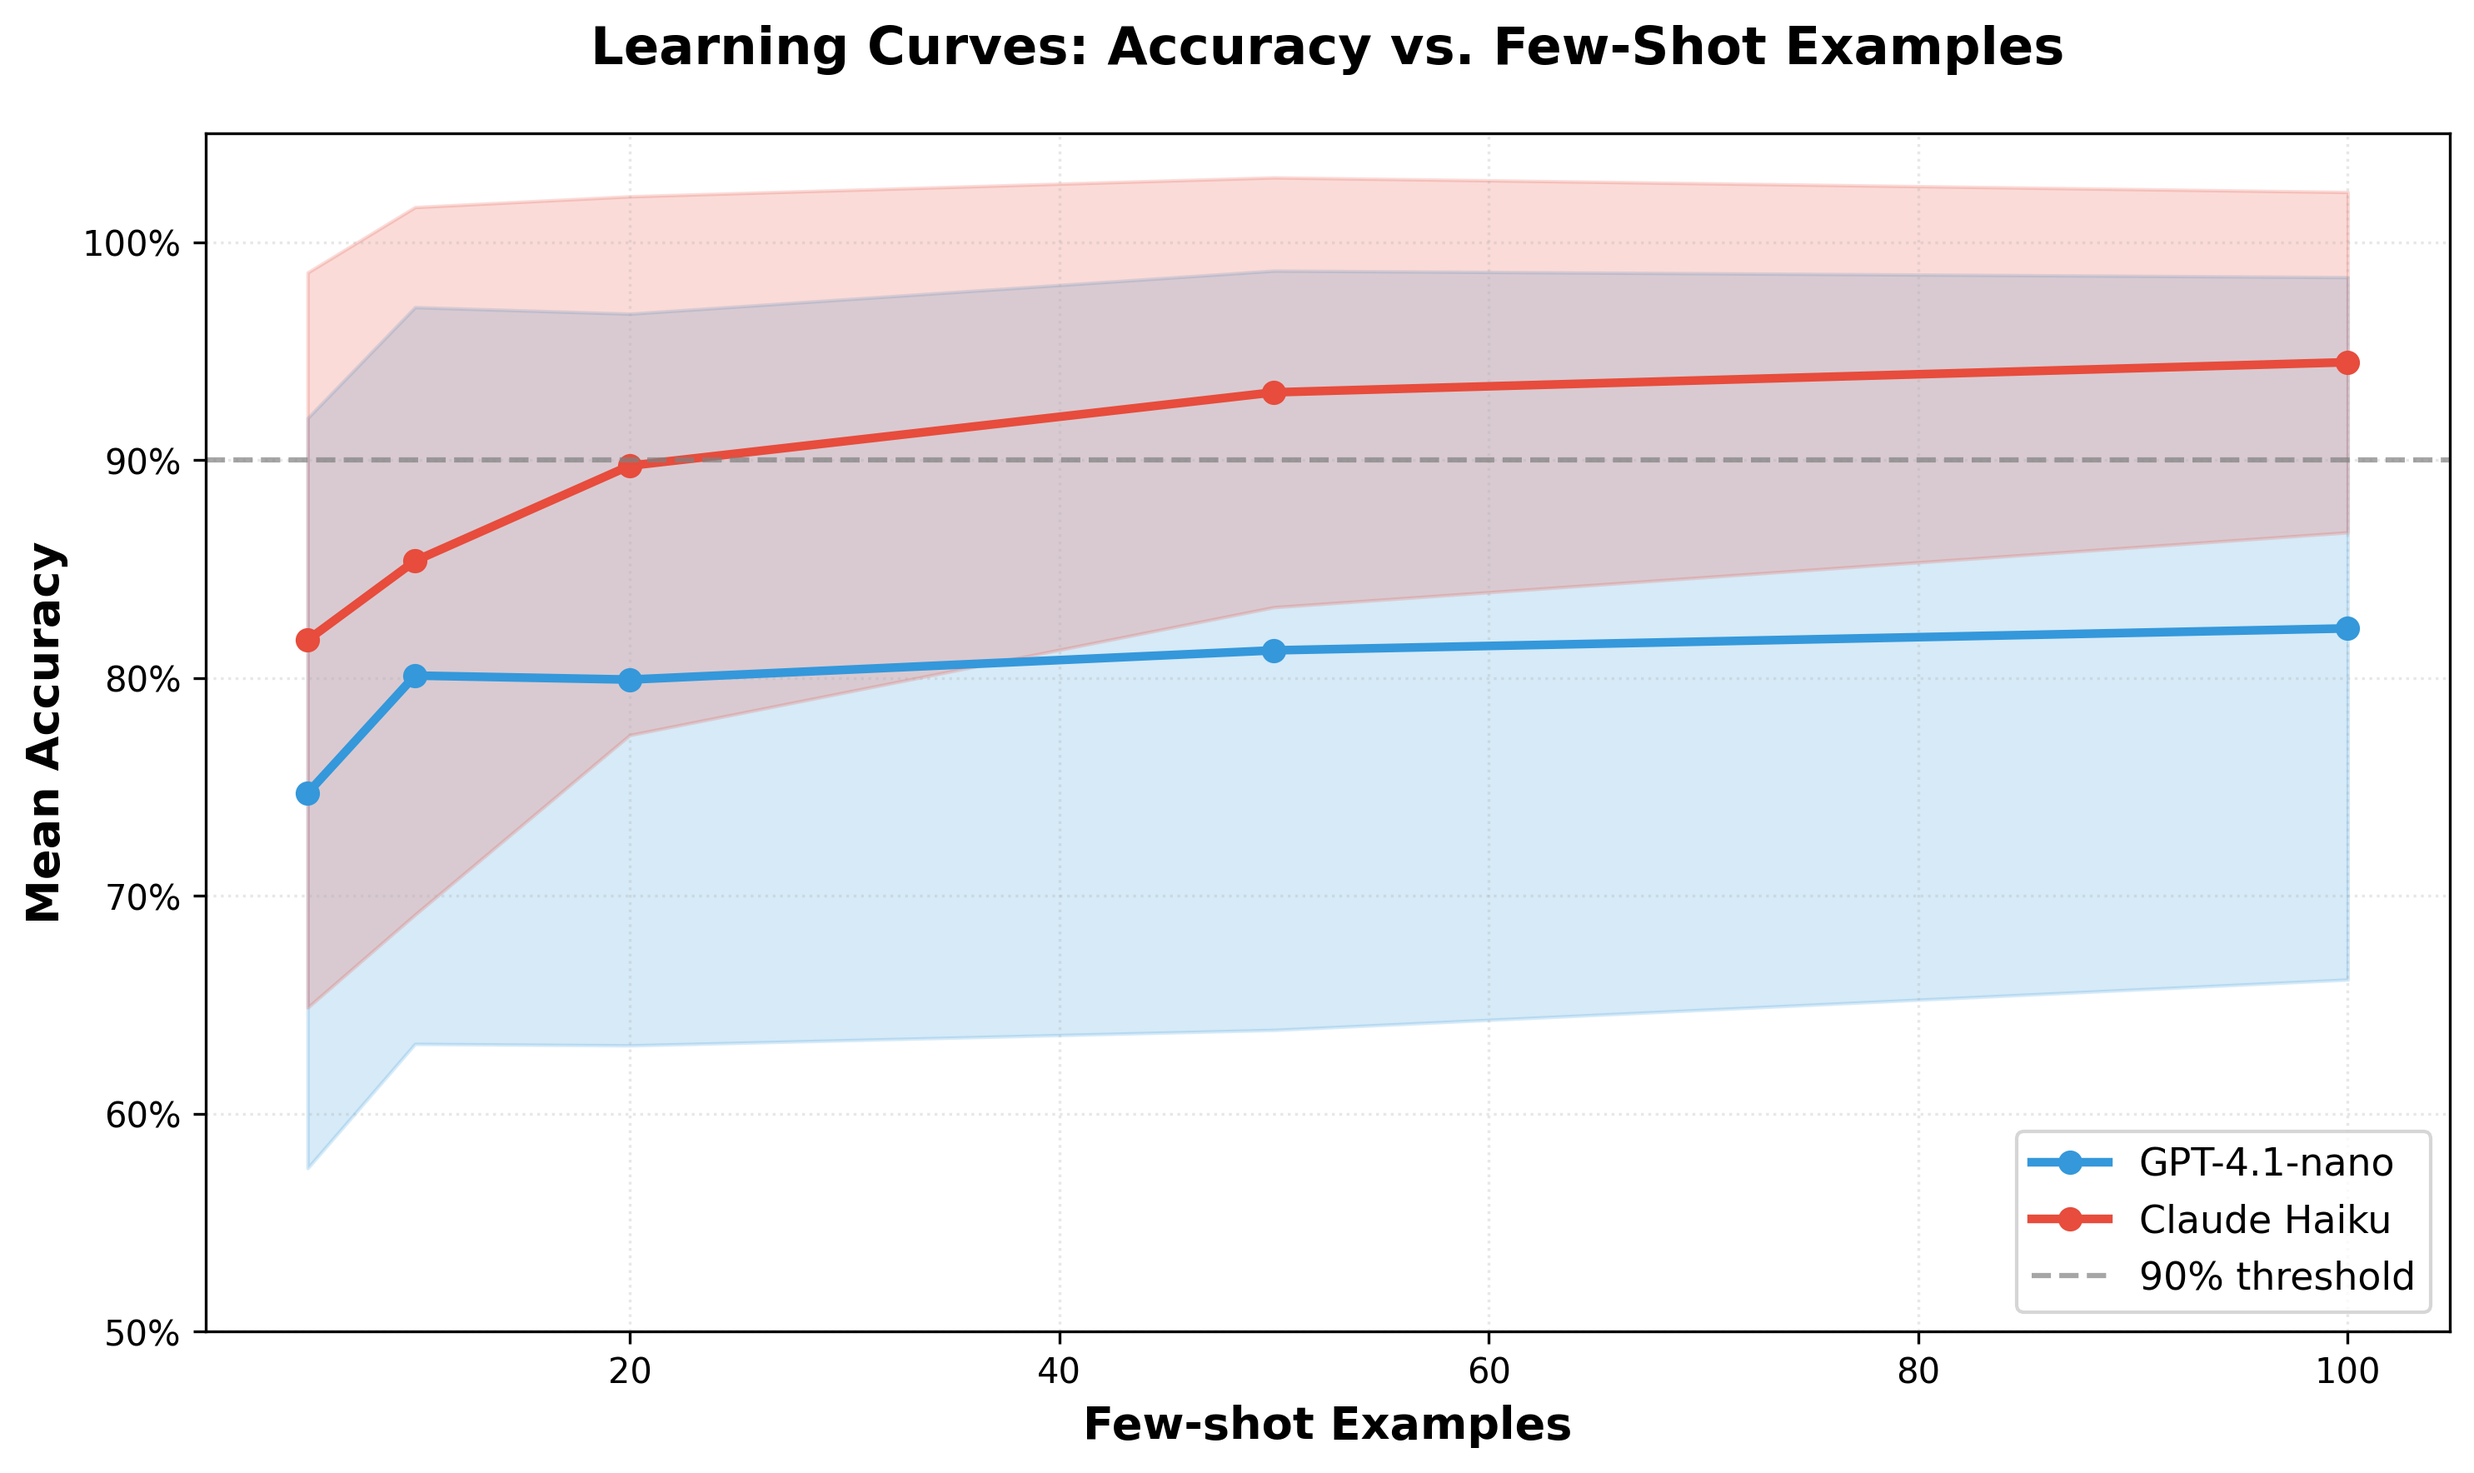
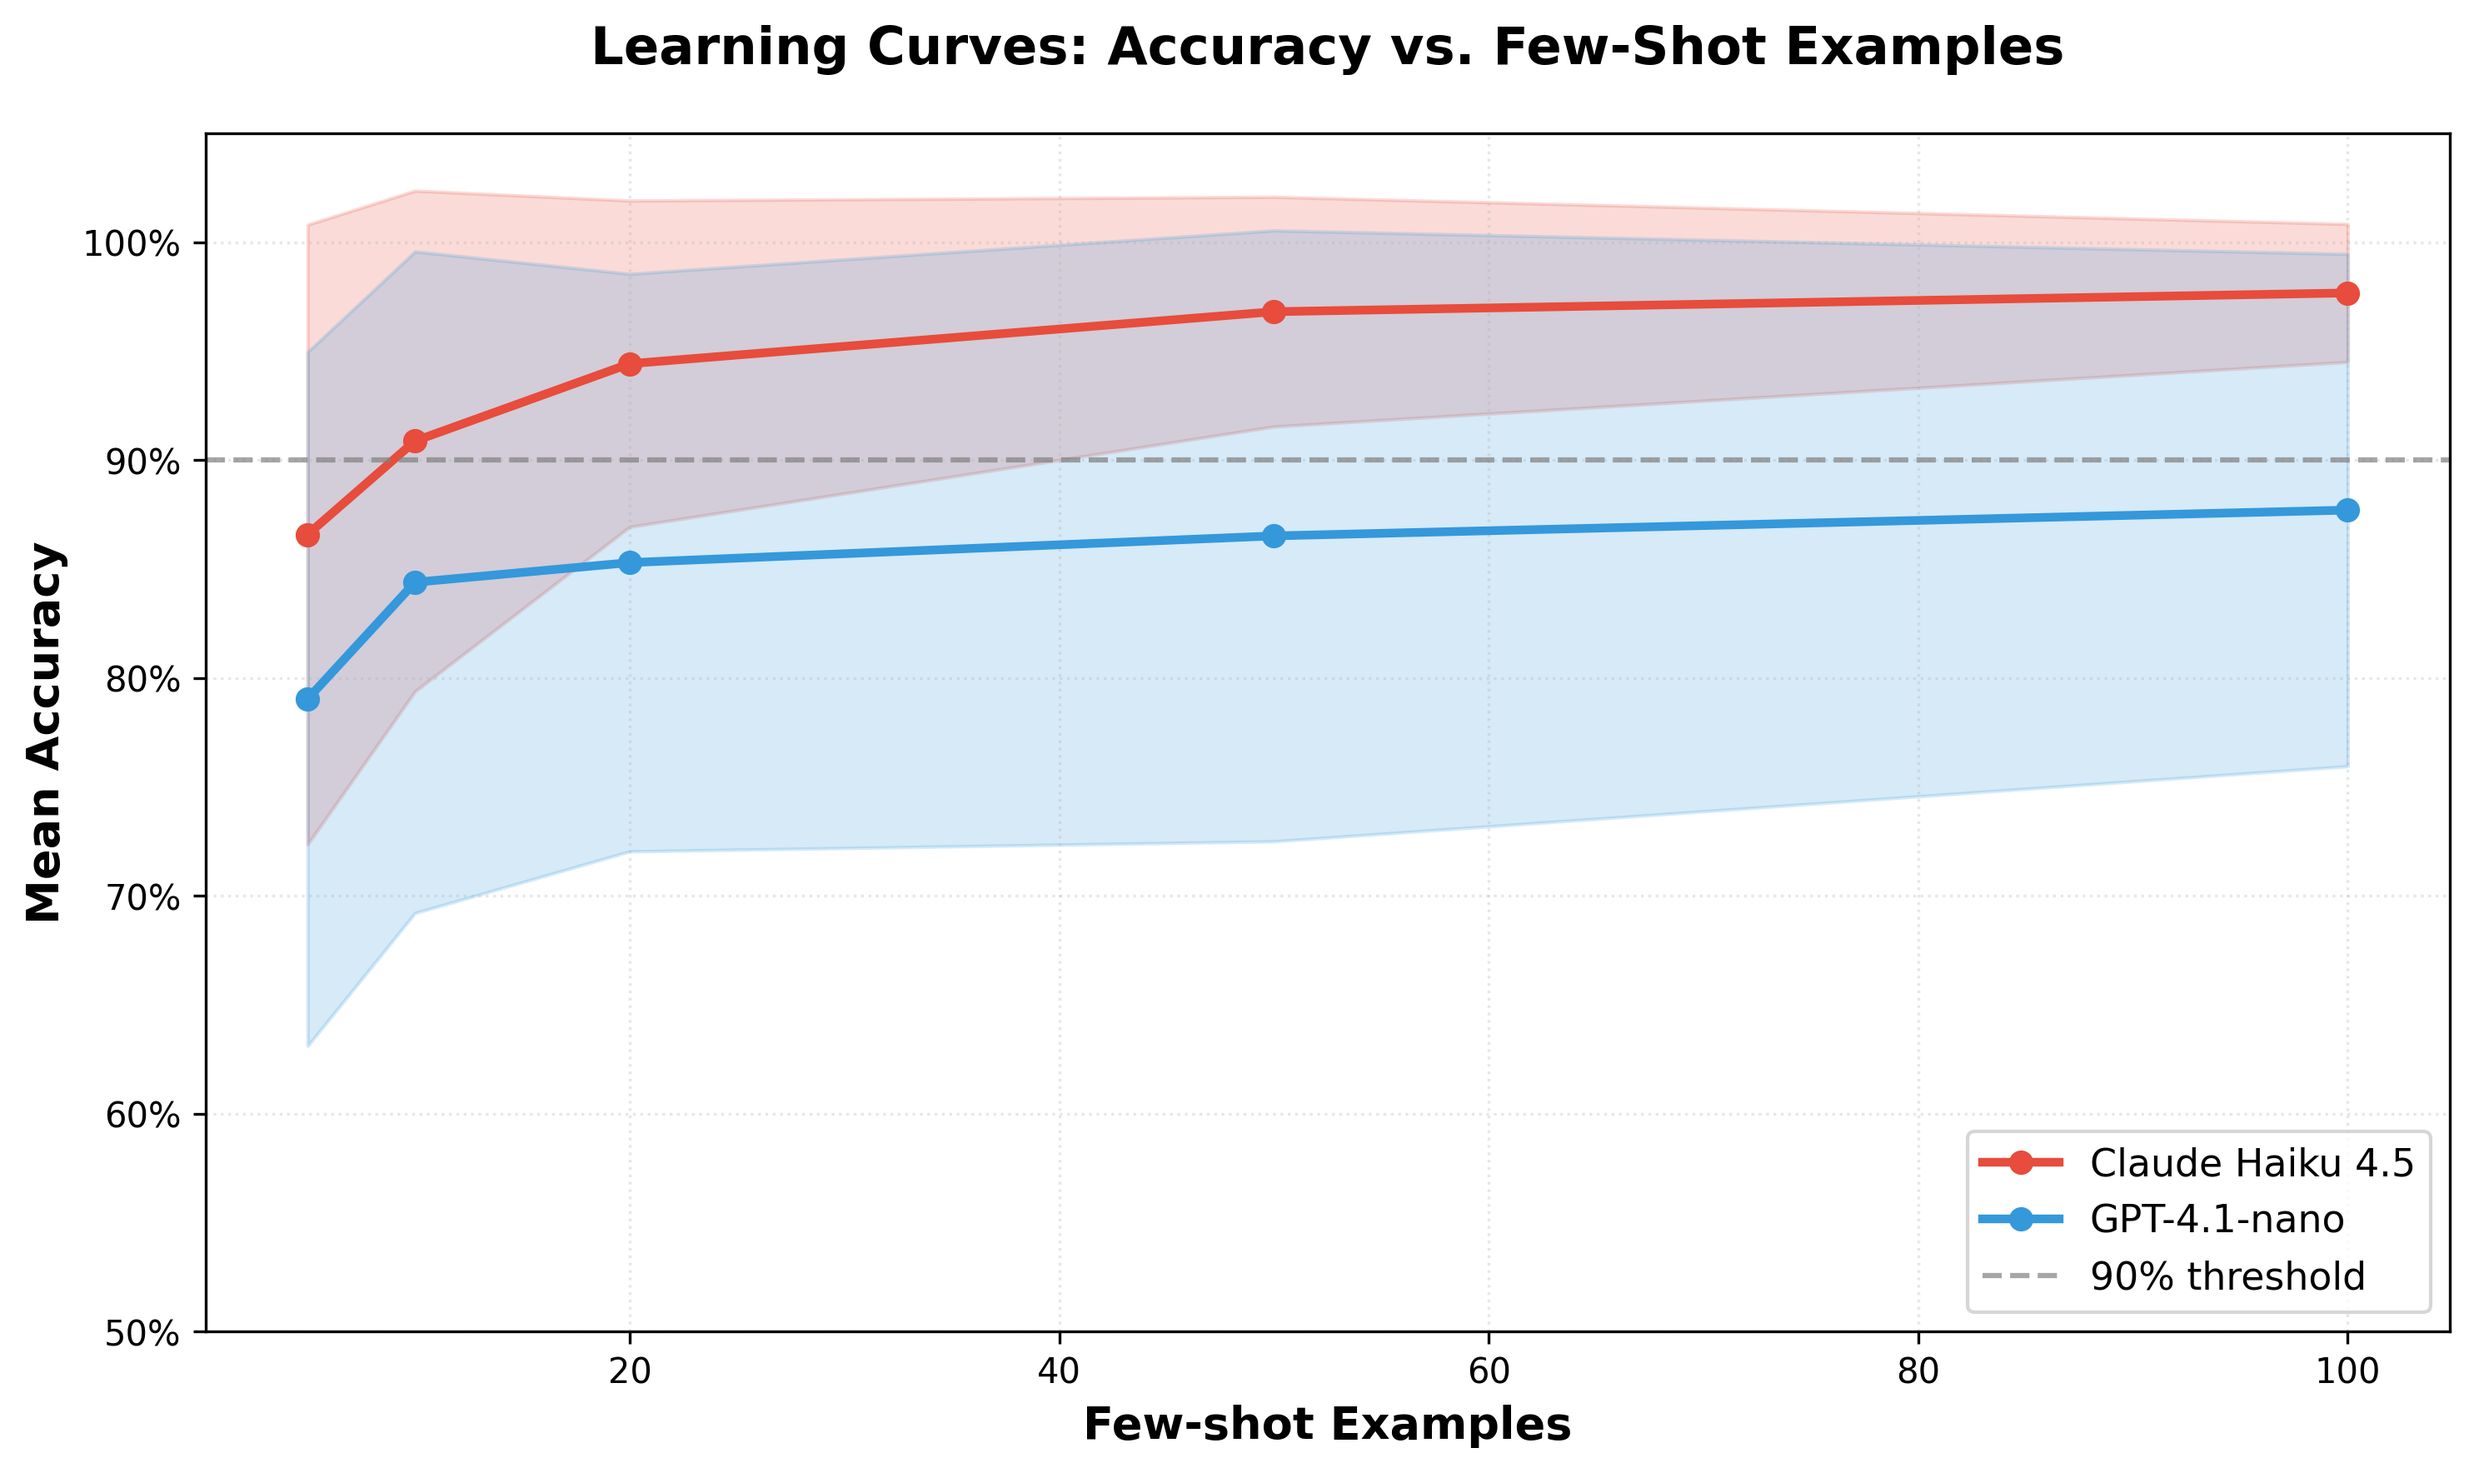
Update visualizations and figures

diff --git a/src/create_learnability_visualizations.py b/src/create_learnability_visualizations.py
@@ -127,8 +127,7 @@ def plot_category_learning_curves(df: pd.DataFrame, output_path: Path):
 
     categories = sorted(df["category"].unique())
     category_colors = {
-        "syntactic": "#2ecc71",
-        "pattern": "#e67e22",
+        "pattern-based": "#2ecc71",
         "semantic": "#9b59b6",
         "statistical": "#f39c12",
     }
@@ -240,6 +239,16 @@ def plot_rule_level_heatmap(df: pd.DataFrame, output_path: Path):
     # Filter to 100-shot only
     df_100 = df[df["shot_count"] == 100].copy()
 
+    # Filter to only learnable rules (>=90% for at least one model)
+    learnable_rules = set()
+    for rule_id in df_100["rule_id"].unique():
+        rule_df = df_100[df_100["rule_id"] == rule_id]
+        if rule_df["accuracy"].max() >= 0.90:
+            learnable_rules.add(rule_id)
+
+    df_100 = df_100[df_100["rule_id"].isin(learnable_rules)].copy()
+    print(f"Filtered to {len(learnable_rules)} learnable rules (≥90% for at least one model)")
+
     # Pivot to get rule × model matrix
     pivot = df_100.pivot_table(
         index=["category", "rule_id"],
@@ -252,8 +261,12 @@ def plot_rule_level_heatmap(df: pd.DataFrame, output_path: Path):
     pivot = pivot.sort_values(["category", "mean_accuracy"], ascending=[True, False])
     pivot = pivot.drop("mean_accuracy", axis=1)
 
-    # Rename columns for clarity
-    pivot.columns = ["GPT-4.1-nano", "Claude Haiku 4.5"]
+    # Rename columns for clarity - use mapping based on actual column names
+    column_mapping = {
+        "gpt-4.1-nano-2025-04-14": "GPT-4.1-nano",
+        "claude-haiku-4-5-20251001": "Claude Haiku"
+    }
+    pivot.columns = [column_mapping.get(col, col) for col in pivot.columns]
 
     # Create figure
     fig, ax = plt.subplots(figsize=(8, 16))
@@ -277,8 +290,7 @@ def plot_rule_level_heatmap(df: pd.DataFrame, output_path: Path):
 
     # Add category color bar on the left
     category_colors = {
-        "syntactic": "#2ecc71",
-        "pattern": "#e67e22",
+        "pattern-based": "#2ecc71",
         "semantic": "#9b59b6",
         "statistical": "#f39c12",
     }
@@ -346,8 +358,7 @@ def plot_model_agreement_analysis(df: pd.DataFrame, output_path: Path) -> dict[s
     ax = axes[0]
 
     category_colors = {
-        "syntactic": "#2ecc71",
-        "pattern": "#e67e22",
+        "pattern-based": "#2ecc71",
         "semantic": "#9b59b6",
         "statistical": "#f39c12",
     }
@@ -501,7 +512,7 @@ def generate_analysis_summary(df: pd.DataFrame, output_path: Path, correlations:
     lines.append("\n## Key Insights\n")
     lines.append("1. **Monotonic improvement:** Accuracy increases consistently with more examples")
     lines.append("2. **Claude advantage:** Outperforms GPT across nearly all categories")
-    lines.append("3. **Category difficulty:** Syntactic rules easiest, semantic/statistical more challenging")
+    lines.append("3. **Category difficulty:** Pattern-based rules generally easier, semantic/statistical more challenging")
     lines.append("4. **Optimal shot count:** 50-100 examples recommended for reliable performance")
     if correlations and correlations['spearman_r'] > 0.7:
         lines.append("5. **Model agreement:** Both models find similar rules difficult, suggesting inherent task difficulty")

diff --git a/src/create_articulation_freeform_visualizations.py b/src/create_articulation_freeform_visualizations.py
@@ -163,8 +163,7 @@ def plot_judge_vs_functional_scatter(
 
     # Define category colors
     category_colors = {
-        "syntactic": "#2ecc71",
-        "pattern": "#e67e22",
+        "pattern-based": "#2ecc71",
         "semantic": "#9b59b6",
         "statistical": "#f39c12",
     }
@@ -533,11 +532,10 @@ def plot_prompt_variation_comparison(
 
 
 def plot_category_performance(freeform_df: pd.DataFrame, output_path: Path):
-    """Figure 4: Category-specific performance (syntactic, pattern, semantic, statistical)."""
+    """Figure 4: Category-specific performance (pattern-based, semantic, statistical)."""
     categories = sorted(freeform_df["category"].unique())
     category_colors = {
-        "syntactic": "#2ecc71",
-        "pattern": "#e67e22",
+        "pattern-based": "#2ecc71",
         "semantic": "#9b59b6",
         "statistical": "#f39c12",
     }
@@ -735,8 +733,7 @@ def plot_mc_vs_freeform_comparison(
     ax = axes[2]
     categories = sorted(freeform_df["category"].unique())
     category_colors = {
-        "syntactic": "#2ecc71",
-        "pattern": "#e67e22",
+        "pattern-based": "#2ecc71",
         "semantic": "#9b59b6",
         "statistical": "#f39c12",
     }
@@ -826,8 +823,7 @@ def plot_gap_analysis_by_category(freeform_df: pd.DataFrame, output_path: Path):
 
     categories = sorted(freeform_df["category"].unique())
     category_colors = {
-        "syntactic": "#2ecc71",
-        "pattern": "#e67e22",
+        "pattern-based": "#2ecc71",
         "semantic": "#9b59b6",
         "statistical": "#f39c12",
     }

diff --git a/src/create_faithfulness_visualizations.py b/src/create_faithfulness_visualizations.py
@@ -373,8 +373,7 @@ def plot_category_comparison(df: pd.DataFrame, output_path: Path):
     """Figure 3: Faithfulness by category (grouped bar chart)."""
     categories = sorted(df["category"].unique())
     category_colors = {
-        "syntactic": "#2ecc71",
-        "pattern": "#e67e22",
+        "pattern-based": "#2ecc71",
         "semantic": "#9b59b6",
         "statistical": "#f39c12",
     }
@@ -463,8 +462,7 @@ def plot_functional_vs_faithfulness(df: pd.DataFrame, output_path: Path):
 
     categories = sorted(df["category"].unique())
     category_colors = {
-        "syntactic": "#2ecc71",
-        "pattern": "#e67e22",
+        "pattern-based": "#2ecc71",
         "semantic": "#9b59b6",
         "statistical": "#f39c12",
     }
@@ -542,8 +540,7 @@ def plot_cross_context_improvement(df: pd.DataFrame, output_path: Path):
 
     categories = sorted(df["category"].unique())
     category_colors = {
-        "syntactic": "#2ecc71",
-        "pattern": "#e67e22",
+        "pattern-based": "#2ecc71",
         "semantic": "#9b59b6",
         "statistical": "#f39c12",
     }
@@ -714,8 +711,7 @@ def plot_category_boxplots(df: pd.DataFrame, output_path: Path):
 
     categories = sorted(df["category"].unique())
     category_colors = {
-        "syntactic": "#2ecc71",
-        "pattern": "#e67e22",
+        "pattern-based": "#2ecc71",
         "semantic": "#9b59b6",
         "statistical": "#f39c12",
     }

diff --git a/src/create_articulation_visualizations.py b/src/create_articulation_visualizations.py
@@ -100,8 +100,7 @@ def plot_performance_gap_scatter(df: pd.DataFrame, output_path: Path):
     df_complete = df.dropna(subset=["learn_100_accuracy", "mc_accuracy"])
 
     category_colors = {
-        "syntactic": "#2ecc71",
-        "pattern": "#e67e22",
+        "pattern-based": "#2ecc71",
         "semantic": "#9b59b6",
         "statistical": "#f39c12",
     }
@@ -276,8 +275,7 @@ def plot_rule_level_heatmap_with_gap(
 
     # Color y-tick labels by category
     category_colors = {
-        "syntactic": "#2ecc71",
-        "pattern": "#e67e22",
+        "pattern-based": "#2ecc71",
         "semantic": "#9b59b6",
         "statistical": "#f39c12",
     }
@@ -316,8 +314,7 @@ def plot_shot_count_vs_articulation(df: pd.DataFrame, output_path: Path):
     fig, ax = plt.subplots(figsize=(12, 8))
 
     category_colors = {
-        "syntactic": "#2ecc71",
-        "pattern": "#e67e22",
+        "pattern-based": "#2ecc71",
         "semantic": "#9b59b6",
         "statistical": "#f39c12",
     }
@@ -395,8 +392,7 @@ def plot_model_agreement_on_articulation(df: pd.DataFrame, output_path: Path):
     fig, ax = plt.subplots(figsize=(11, 10))
 
     category_colors = {
-        "syntactic": "#2ecc71",
-        "pattern": "#e67e22",
+        "pattern-based": "#2ecc71",
         "semantic": "#9b59b6",
         "statistical": "#f39c12",
     }

diff --git a/src/create_research_analysis_visualizations.py b/src/create_research_analysis_visualizations.py
@@ -148,8 +148,7 @@ def plot_learnability_vs_articulation(df: pd.DataFrame, output_path: Path):
 
     categories = sorted(df["category"].unique())
     category_colors = {
-        "syntactic": "#2ecc71",
-        "pattern": "#e67e22",
+        "pattern-based": "#2ecc71",
         "semantic": "#9b59b6",
         "statistical": "#f39c12",
     }
@@ -249,8 +248,7 @@ def plot_articulation_vs_faithfulness(df: pd.DataFrame, output_path: Path):
 
     categories = sorted(df["category"].unique())
     category_colors = {
-        "syntactic": "#2ecc71",
-        "pattern": "#e67e22",
+        "pattern-based": "#2ecc71",
         "semantic": "#9b59b6",
         "statistical": "#f39c12",
     }
@@ -347,8 +345,7 @@ def plot_learnability_vs_faithfulness(df: pd.DataFrame, output_path: Path):
 
     categories = sorted(df["category"].unique())
     category_colors = {
-        "syntactic": "#2ecc71",
-        "pattern": "#e67e22",
+        "pattern-based": "#2ecc71",
         "semantic": "#9b59b6",
         "statistical": "#f39c12",
     }

diff --git a/src/create_articulation_functional_visualizations.py b/src/create_articulation_functional_visualizations.py
@@ -232,8 +232,7 @@ def plot_category_comparison(
     """Figure 2: Category-specific comparison (averaged across variations for clarity)."""
     categories = sorted(learn_df["category"].unique())
     category_colors = {
-        "syntactic": "#2ecc71",
-        "pattern": "#e67e22",
+        "pattern-based": "#2ecc71",
         "semantic": "#9b59b6",
         "statistical": "#f39c12",
     }
@@ -352,8 +351,7 @@ def plot_gap_across_shots(
 
     categories = sorted(learn_df["category"].unique())
     category_colors = {
-        "syntactic": "#2ecc71",
-        "pattern": "#e67e22",
+        "pattern-based": "#2ecc71",
         "semantic": "#9b59b6",
         "statistical": "#f39c12",
     }
@@ -577,8 +575,7 @@ def plot_model_agreement_functional(functional_df: pd.DataFrame, output_path: Pa
 
     # Scatter plot
     category_colors = {
-        "syntactic": "#2ecc71",
-        "pattern": "#e67e22",
+        "pattern-based": "#2ecc71",
         "semantic": "#9b59b6",
         "statistical": "#f39c12",
     }

diff --git a/src/create_articulation_multishot_visualizations.py b/src/create_articulation_multishot_visualizations.py
@@ -190,8 +190,7 @@ def plot_category_comparison(
     """Figure 2: Category-specific learnability vs articulation (4 category subplots)."""
     categories = sorted(learn_df["category"].unique())
     category_colors = {
-        "syntactic": "#2ecc71",
-        "pattern": "#e67e22",
+        "pattern-based": "#2ecc71",
         "semantic": "#9b59b6",
         "statistical": "#f39c12",
     }
@@ -290,8 +289,7 @@ def plot_gap_across_shots(
 
     categories = sorted(learn_df["category"].unique())
     category_colors = {
-        "syntactic": "#2ecc71",
-        "pattern": "#e67e22",
+        "pattern-based": "#2ecc71",
         "semantic": "#9b59b6",
         "statistical": "#f39c12",
     }
@@ -484,8 +482,7 @@ def plot_model_agreement_articulation(artic_df: pd.DataFrame, output_path: Path)
 
     # Scatter plot
     category_colors = {
-        "syntactic": "#2ecc71",
-        "pattern": "#e67e22",
+        "pattern-based": "#2ecc71",
         "semantic": "#9b59b6",
         "statistical": "#f39c12",
     }

diff --git a/paper/figures/analysis_summary.md b/paper/figures/analysis_summary.md
@@ -1,0 +1,35 @@
+# Learnability Analysis Summary
+
+## Overall Statistics
+
+- **5-shot accuracy:** 82.8%
+- **100-shot accuracy:** 92.7%
+- **Improvement:** +9.9%
+
+## Model Comparison (100-shot)
+
+- **Claude Haiku 4.5:** 97.7%
+- **GPT-4.1-nano:** 87.7%
+
+## Category Breakdown (100-shot)
+
+- **Pattern-based:** 92.7% average | 17/17 rules ≥90%
+- **Semantic:** 91.4% average | 8/8 rules ≥90%
+- **Statistical:** 94.7% average | 5/5 rules ≥90%
+
+## Failed Rules (<90% for both models at all shot counts)
+
+- None! All rules achieved ≥90% for at least one model/shot combination
+
+## Model Agreement on Task Difficulty (100-shot)
+
+- **Pearson correlation:** r = 0.612 (p = 1.0e-03)
+- **Spearman correlation:** ρ = 0.659 (p = 1.0e-03)
+- **Interpretation:** Moderate agreement - some differences in which rules are challenging
+
+## Key Insights
+
+1. **Monotonic improvement:** Accuracy increases consistently with more examples
+2. **Claude advantage:** Outperforms GPT across nearly all categories
+3. **Category difficulty:** Pattern-based rules generally easier, semantic/statistical more challenging
+4. **Optimal shot count:** 50-100 examples recommended for reliable performance
